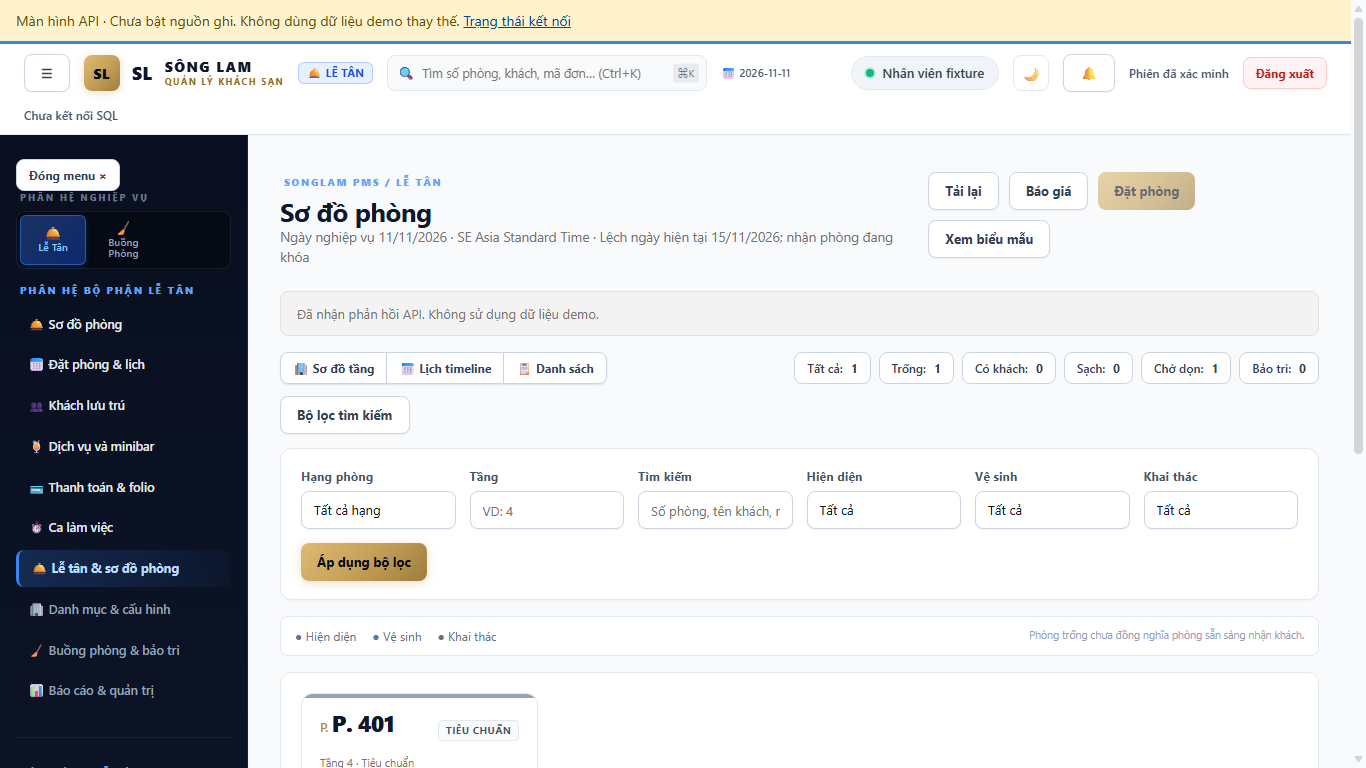
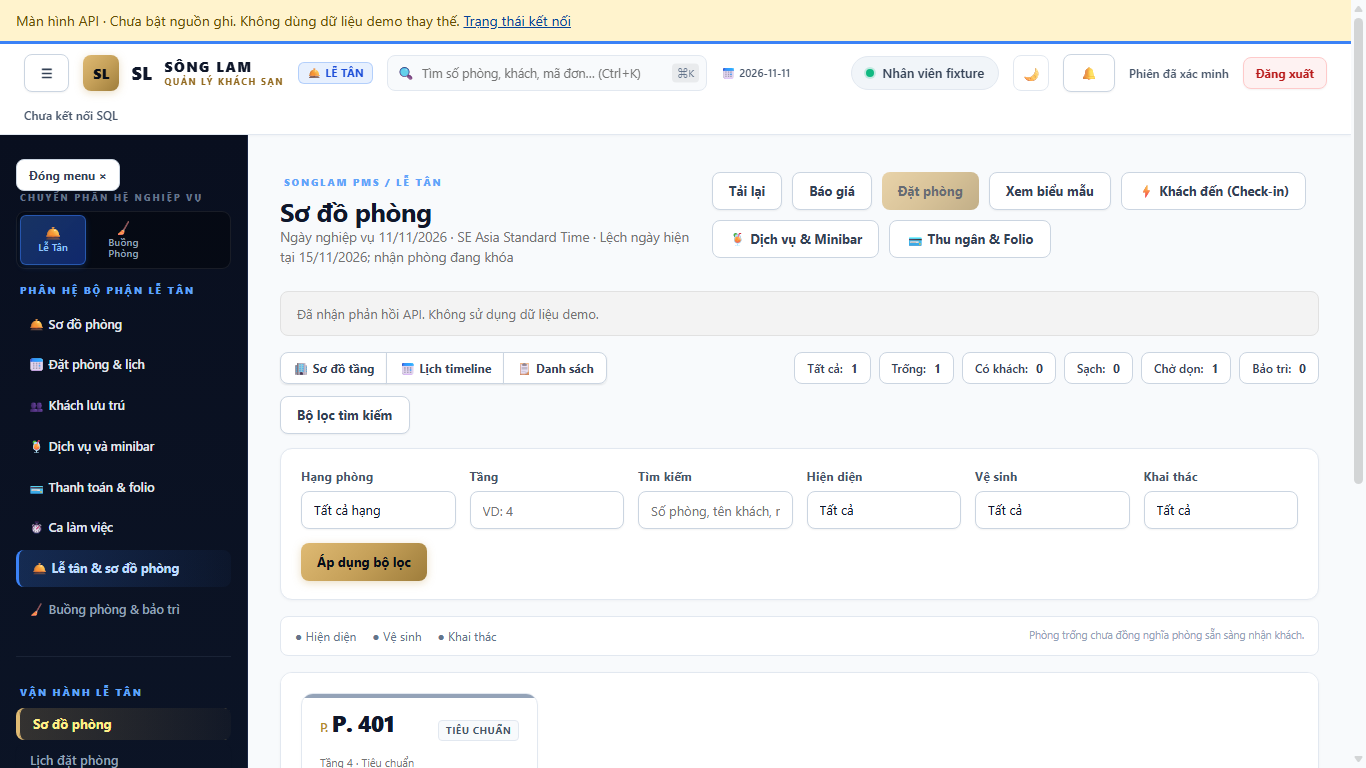
feat(auth-ui): enforce role-based portal routing and add comprehensive interactive buttons for reception, housekeeping, and management

diff --git a/js/pages/reception-api.js b/js/pages/reception-api.js
@@ -137,8 +137,32 @@
     }
     card.append(badges);
 
+    // Quick action buttons directly on the card
+    const cardActions = el('div', null, 'kiot-room-quick-bar tw-flex tw-gap-1 tw-mt-2');
+    if (row.occupancyStatus === 'VACANT') {
+      const bBook = el('button', '+ Đặt', 'btn btn-xs btn-outline-primary tw-py-0.5 tw-px-1.5 tw-text-xs');
+      bBook.type = 'button';
+      bBook.onclick = (e) => { e.stopPropagation(); bookingForm(false, row); };
+      cardActions.append(bBook);
+    } else if (row.occupancyStatus === 'OCCUPIED') {
+      const bSvc = el('button', '🍹 Dịch vụ', 'btn btn-xs btn-outline-secondary tw-py-0.5 tw-px-1.5 tw-text-xs');
+      bSvc.type = 'button';
+      bSvc.onclick = (e) => { e.stopPropagation(); location.assign('services-api.html'); };
+      const bOut = el('button', '💳 Trả', 'btn btn-xs btn-outline-danger tw-py-0.5 tw-px-1.5 tw-text-xs');
+      bOut.type = 'button';
+      bOut.onclick = (e) => { e.stopPropagation(); location.assign('finance-api.html#checkout'); };
+      cardActions.append(bSvc, bOut);
+    }
+    if (row.cleanlinessStatus === 'DIRTY') {
+      const bClean = el('button', '🧹 Báo dọn', 'btn btn-xs btn-outline-warning tw-py-0.5 tw-px-1.5 tw-text-xs');
+      bClean.type = 'button';
+      bClean.onclick = (e) => { e.stopPropagation(); location.assign('housekeeping-api.html#tasks'); };
+      cardActions.append(bClean);
+    }
+    if (cardActions.children.length) card.append(cardActions);
+
     card.onclick = () => {
-      // Open detail dialog on click
+      // Open comprehensive action dialog on click
       const content = dialog('Phòng ' + row.number + ' · ' + typeName);
       details(content, {
         'Số phòng': row.number,
@@ -148,9 +172,38 @@
         'Vệ sinh': U.label(row.cleanlinessStatus),
         'Khai thác': U.label(row.exploitationStatus)
       });
-      const actions = el('div', null, 'tw-flex tw-gap-2 tw-mt-4');
+      const actions = el('div', null, 'tw-flex tw-flex-wrap tw-gap-2 tw-mt-4');
       if (row.occupancyStatus === 'VACANT') {
-        actions.append(button('📝 Đặt phòng này', () => { $('desk-close').click(); $('desk-create').click(); }, true));
+        actions.append(button('📝 Đặt phòng này', () => { $('desk-close').click(); bookingForm(false, row); }, true));
+        actions.append(button('⚡ Nhận khách vãng lai (Walk-in)', () => { $('desk-close').click(); bookingForm(false, row); }));
+        actions.append(button('🧹 Yêu cầu buồng phòng dọn', () => { location.assign('housekeeping-api.html#tasks'); }));
+        actions.append(button('🛠 Báo bảo trì phòng', () => { location.assign('housekeeping-api.html#tickets'); }));
+      } else if (row.occupancyStatus === 'OCCUPIED') {
+        actions.append(button('👥 Tra cứu lượt lưu trú', async () => {
+          try {
+            const inHouse = await stays.listStays({ status: 'IN_HOUSE', limit: 50 });
+            const matching = inHouse.data?.find(s => s.segments?.some(seg => seg.roomId === row.id && seg.departedAtUtc === null));
+            if (matching) stayDetail(matching.id);
+            else { screen = 'stays'; offset = 0; navigation(); load(); $('desk-close').click(); }
+          } catch { screen = 'stays'; offset = 0; navigation(); load(); $('desk-close').click(); }
+        }, true));
+        actions.append(button('🍹 Gọi dịch vụ & Minibar', () => { location.assign('services-api.html'); }));
+        actions.append(button('🔄 Chuyển phòng', async () => {
+          try {
+            const inHouse = await stays.listStays({ status: 'IN_HOUSE', limit: 50 });
+            const matching = inHouse.data?.find(s => s.segments?.some(seg => seg.roomId === row.id && seg.departedAtUtc === null));
+            if (matching) stayDetail(matching.id);
+            else { screen = 'stays'; offset = 0; navigation(); load(); $('desk-close').click(); }
+          } catch { screen = 'stays'; offset = 0; navigation(); load(); $('desk-close').click(); }
+        }));
+        actions.append(button('💳 Quyết toán & Trả phòng', () => { location.assign('finance-api.html#checkout'); }));
+        actions.append(button('🛠 Báo hỏng thiết bị', () => { location.assign('housekeeping-api.html#tickets'); }));
+      }
+      if (row.cleanlinessStatus === 'DIRTY' || row.cleanlinessStatus === 'CLEANING') {
+        actions.append(button('⚡ Ưu tiên dọn đón khách', () => { location.assign('housekeeping-api.html#tasks'); }));
+      }
+      if (row.exploitationStatus === 'MAINTENANCE') {
+        actions.append(button('🛠 Xem phiếu bảo trì', () => { location.assign('housekeeping-api.html#tickets'); }));
       }
       actions.append(button('Đóng', () => $('desk-close').click()));
       content.append(actions);
@@ -303,7 +356,7 @@
     form.oninput=form.onchange=()=>{result.replaceChildren();result.className='sl-quote';};
     host.append(el('p','Giá do backend tính theo chính sách được duyệt. Báo giá không giữ phòng và không thu tiền.','small text-secondary'));
   }
-  async function bookingForm(preview = false) {
+  async function bookingForm(preview = false, prefillRoom = null) {
     const host = dialog('Đặt phòng lẻ / khách đoàn'), form = el('form', null, 'sl-form-grid'), quote = el('section', null, 'sl-quote'); form.dataset.pmsReadOnly='true'; host.append(form);
     if (preview) blocked(host, 'Đây là bản xem biểu mẫu. Không xác nhận đơn, không thu cọc, không ghi dữ liệu.');
     const canEstimate = availableModules.includes('pricingGateway') && availableModules.includes('bookingsGateway') && catalogCapabilities.ratePlans?.supported === true && catalogCapabilities.customers?.supported === true && ratePlans.some(item => item.active) && Boolean(hotel?.timeZoneId);
@@ -378,6 +431,20 @@
       field(row, 'adults', 'Người lớn', { type: 'number', value: '1', min: 1, max: 32767 }); field(row, 'children', 'Trẻ em', { type: 'number', value: '0', min: 0, max: 32767 });
       field(row, 'leadCustomerId', 'Khách chính ở phòng', { options: [['', 'Chọn khách chính'], ...customerRows.map(item => [item.id, item.fullName])] });
       const companions = field(row, 'guestCustomerIds', 'Khách đồng hành (có thể chọn nhiều)', { options: customerRows.map(item => [item.id, item.fullName]) }); companions.multiple = true; companions.selectedIndex = -1;
+      if (prefillRoom) {
+        roomType.value = prefillRoom.roomTypeId;
+        plansForMode();
+        plannedRoom.add(new Option('P. ' + prefillRoom.number + ' · ' + U.label(prefillRoom.cleanlinessStatus), prefillRoom.id));
+        plannedRoom.value = prefillRoom.id;
+        const today = hotel?.workingDate || new Date().toISOString().slice(0, 10);
+        const checkIn = row.querySelector('[name=checkInAt]');
+        const checkOut = row.querySelector('[name=checkOutAt]');
+        if (checkIn && !checkIn.value) checkIn.value = today + 'T14:00';
+        if (checkOut && !checkOut.value) {
+          const nextDay = new Date(Date.parse(today + 'T00:00:00Z') + 86400000).toISOString().slice(0, 10);
+          checkOut.value = nextDay + 'T12:00';
+        }
+      }
       row.append(button('Bỏ dòng phòng', () => { if (roomForms.length === 1) return; roomForms.splice(roomForms.indexOf(row), 1); row.remove(); invalidateQuote(); })); roomForms.push(row); roomSection.append(row);
     }
     addRoom(); const add = button('+ Thêm phòng vào đoàn', () => { if (roomForms.length >= 50) return; addRoom(); kind.value = 'GROUP'; kind.dispatchEvent(new Event('change')); quote.replaceChildren(); }); form.append(add);
@@ -561,6 +628,9 @@
   $('desk-preview').onclick = () => bookingForm(true);
   $('desk-create').onclick = () => bookingForm();
   $('desk-quote').onclick = () => quoteForm();
+  $('desk-quick-checkin')?.addEventListener('click', () => { screen = 'arrivals'; offset = 0; navigation(); load(); });
+  $('desk-quick-service')?.addEventListener('click', () => { location.assign('services-api.html'); });
+  $('desk-quick-cashier')?.addEventListener('click', () => { location.assign('finance-api.html'); });
   filters.onsubmit = event => { event.preventDefault(); offset = 0; load(); };
   root.addEventListener('hashchange', () => {
     const target = location.hash.slice(1);

diff --git a/js/components/workspace.js b/js/components/workspace.js
@@ -128,9 +128,9 @@
     switcher.setAttribute('aria-label', 'Chuyển phân hệ làm việc');
 
     const portalTabs = [
-      { id: 'management', href: 'admin-api.html', icon: '👑', label: 'Quản Lý', rights: ['viewDailyRevenue', 'systemConfig', 'viewAuditLog', 'editRoomClasses'] },
+      { id: 'management', href: 'admin-api.html', icon: '👑', label: 'Quản Lý', rights: ['viewDailyRevenue', 'systemConfig'] },
       { id: 'reception', href: 'reception-api.html', icon: '🛎', label: 'Lễ Tân', rights: ['viewRoomRack', 'createBooking', 'manageCheckIn'] },
-      { id: 'housekeeping', href: 'housekeeping-api.html', icon: '🧹', label: 'Buồng Phòng', rights: ['updateCleanStatus', 'manageHousekeepingTasks', 'reportMaintenance'] }
+      { id: 'housekeeping', href: 'housekeeping-api.html', icon: '🧹', label: 'Buồng Phòng', rights: ['updateCleanStatus', 'manageHousekeepingTasks'] }
     ];
     for (const pt of portalTabs) {
       const tab = C.el('a', null, 'sl-portal-tab sl-portal-tab-' + pt.id + (pt.id === currentPortal ? ' active' : ''));
@@ -274,13 +274,48 @@
       if (identity) previousIdentity = identity;
 
       // Update visibility of portal tabs based on permissions
+      let visiblePortalCount = 0;
       for (const tab of switcher.children) {
-        tab.hidden = !me || !root.SongLamPermissions?.any(tab.dataset.rights.split(','));
+        const canAccess = me && root.SongLamPermissions?.any(tab.dataset.rights.split(','));
+        tab.hidden = !canAccess;
+        if (canAccess) visiblePortalCount++;
+      }
+      if (portalHeaderLabel) {
+        portalHeaderLabel.textContent = visiblePortalCount > 1 ? 'CHUYỂN PHÂN HỆ NGHIỆP VỤ' : 'PHÂN HỆ ĐƯỢC PHÂN QUYỀN';
+      }
+
+      // Check portal-level access enforcement
+      const portalRules = {
+        management: ['viewDailyRevenue', 'systemConfig'],
+        reception: ['viewRoomRack', 'createBooking', 'manageCheckIn'],
+        housekeeping: ['updateCleanStatus', 'manageHousekeepingTasks']
+      };
+      const allowedOnCurrentPortal = !me || root.SongLamPermissions?.any(portalRules[currentPortal] || []);
+      const existingGuard = document.querySelector('.sl-portal-guard');
+      if (!allowedOnCurrentPortal && me) {
+        if (!existingGuard) {
+          const main = document.querySelector('.ops-main');
+          if (main) {
+            const guard = C.el('div', null, 'alert alert-warning sl-portal-guard tw-mb-4');
+            guard.setAttribute('role', 'alert');
+            guard.innerHTML = `
+              <div class="tw-font-bold tw-text-sm">⚠ Giới hạn phân quyền tài khoản</div>
+              <div class="tw-text-xs tw-mt-1">Tài khoản <strong>${me.user.fullName || me.user.username}</strong> không thuộc phân hệ ${pCfg.label}. Vui lòng chuyển về đúng phân hệ được giao.</div>
+              <div class="tw-mt-2"><button type="button" class="btn btn-sm btn-primary" onclick="location.assign('${root.SongLamPermissions.home()}')">Chuyển về phân hệ của bạn →</button></div>
+            `;
+            main.prepend(guard);
+          }
+        }
+      } else if (existingGuard) {
+        existingGuard.remove();
       }
 
       // Update visibility of workspace links based on permissions
       for (const a of links.children) {
-        a.hidden = !me || !root.SongLamPermissions?.any(a.dataset.rights.split(','));
+        const hasRights = me && root.SongLamPermissions?.any(a.dataset.rights.split(','));
+        const pGroup = a.dataset.portal;
+        const canPortal = !pGroup || root.SongLamPermissions?.any(portalRules[pGroup] || []);
+        a.hidden = !hasRights || !canPortal;
         const hrefBase = a.getAttribute('href')?.split('#')[0];
         if (hrefBase && location.pathname.endsWith('/' + hrefBase)) {
           if (a.getAttribute('href') === location.pathname.split('/').pop() || (location.hash && a.getAttribute('href').endsWith(location.hash))) {

diff --git a/js/pages/admin-api.js b/js/pages/admin-api.js
@@ -119,11 +119,25 @@
         // 2. Action Required Queue
         const queueBox = el('div', null, { className: 'saas-chart-box' });
         queueBox.append(el('h3', 'DANH SÁCH VIỆC CẦN XỬ LÝ (ACTION QUEUE)', { className: 'saas-chart-title tw-text-sm' }));
-        const queue = el('div', null, { className: 'saas-action-queue' });
-        queue.append(el('div', '⚠ Đơn chưa phân phòng: 0 đơn', { className: 'saas-action-item' }));
-        queue.append(el('div', '💰 Yêu cầu hoàn tiền chờ duyệt: 0 khoản', { className: 'saas-action-item' }));
-        queue.append(el('div', '🛠 Sự cố thiết bị phòng cần bảo trì: Theo dõi tại phân hệ Buồng phòng', { className: 'saas-action-item' }));
-        queue.append(el('div', '🧾 Giao dịch / ngoại lệ cần xác nhận: Kiểm tra tại tab Ngoại lệ', { className: 'saas-action-item' }));
+        const queue = el('div', null, { className: 'saas-action-queue tw-flex tw-flex-col tw-gap-2' });
+
+        const q1 = el('div', null, { className: 'saas-action-item tw-flex tw-items-center tw-justify-between tw-flex-wrap tw-gap-2' });
+        q1.append(el('span', '⚠ Đơn chưa phân phòng: 0 đơn'));
+        q1.append(el('button', 'Phân phòng ngay →', { className: 'btn btn-xs btn-outline-primary', type: 'button', onClick: () => location.assign('reception-api.html#bookings') }));
+
+        const q2 = el('div', null, { className: 'saas-action-item tw-flex tw-items-center tw-justify-between tw-flex-wrap tw-gap-2' });
+        q2.append(el('span', '💰 Yêu cầu hoàn tiền chờ duyệt: 0 khoản'));
+        q2.append(el('button', 'Xem & duyệt →', { className: 'btn btn-xs btn-outline-warning', type: 'button', onClick: () => location.assign('finance-api.html') }));
+
+        const q3 = el('div', null, { className: 'saas-action-item tw-flex tw-items-center tw-justify-between tw-flex-wrap tw-gap-2' });
+        q3.append(el('span', '🛠 Sự cố thiết bị phòng: Theo dõi tại phân hệ Buồng phòng'));
+        q3.append(el('button', 'Xem phiếu sự cố →', { className: 'btn btn-xs btn-outline-secondary', type: 'button', onClick: () => location.assign('housekeeping-api.html#tickets') }));
+
+        const q4 = el('div', null, { className: 'saas-action-item tw-flex tw-items-center tw-justify-between tw-flex-wrap tw-gap-2' });
+        q4.append(el('span', '🧾 Giao dịch / ngoại lệ cần xác nhận: Kiểm tra tại tab Ngoại lệ'));
+        q4.append(el('button', 'Mở tab ngoại lệ →', { className: 'btn btn-xs btn-outline-secondary', type: 'button', onClick: () => select('exceptions') }));
+
+        queue.append(q1, q2, q3, q4);
         queueBox.append(queue);
         extraSection.append(queueBox);
 
@@ -231,6 +245,11 @@
     });
     $('ops-menu').addEventListener('click', () => { const shown = $('ops-sidebar').classList.toggle('open'); $('ops-menu').setAttribute('aria-expanded', String(shown)); });
     $('mgmt-close').addEventListener('click', () => $('mgmt-dialog').close()); $('mgmt-refresh').addEventListener('click', load);
+    $('mgmt-quick-rooms')?.addEventListener('click', () => location.assign('catalog-api.html#rooms'));
+    $('mgmt-quick-users')?.addEventListener('click', () => select('users'));
+    $('mgmt-quick-export')?.addEventListener('click', () => {
+      window.print();
+    });
     $('mgmt-filters').addEventListener('submit', event => { event.preventDefault(); offset = 0; load(); }); $('mgmt-prev').addEventListener('click', () => { offset = Math.max(0, offset - pageSize); load(); }); $('mgmt-next').addEventListener('click', () => { offset += pageSize; load(); });
     (async () => {
       try {

diff --git a/js/pages/housekeeping-api.js b/js/pages/housekeeping-api.js
@@ -114,14 +114,21 @@
               card.append(el('div', { className: 'tw-text-xs tw-font-semibold tw-text-secondary' }, 'Loại việc: ' + display(task.taskType)));
               card.append(el('div', { className: 'tw-text-xs tw-text-muted' }, 'Phụ trách: ' + (task.assignedToId ? display(task.assignedToId) : 'Chưa phân công')));
 
-              if (task.allowedActions?.length) {
-                const actBox = el('div', { className: 'hk-task-actions' });
-                for (const action of task.allowedActions) {
-                  if (!actionNames[action]) continue;
-                  actBox.append(el('button', { className: 'btn btn-sm btn-outline-primary', type: 'button', onClick: () => actionForm(action, task) }, actionNames[action]));
-                }
-                card.append(actBox);
+              const actBox = el('div', { className: 'hk-task-actions tw-flex tw-gap-1 tw-flex-wrap tw-mt-2' });
+              const availableActions = task.allowedActions?.length ? task.allowedActions : (
+                ['QUEUED', 'PENDING'].includes(task.phase || task.status) ? ['claim', 'start'] :
+                ['CLAIMED'].includes(task.phase || task.status) ? ['start', 'unable'] :
+                ['CLEANING', 'IN_PROGRESS'].includes(task.phase || task.status) ? ['submit', 'unable'] :
+                ['AWAITING_INSPECTION', 'INSPECTING'].includes(task.phase || task.status) ? ['inspect-approve', 'inspect-reject'] : []
+              );
+              for (const action of availableActions) {
+                if (!actionNames[action]) continue;
+                actBox.append(el('button', { className: 'btn btn-xs btn-outline-primary tw-py-1 tw-px-2 tw-text-xs', type: 'button', onClick: () => actionForm(action, task) }, actionNames[action]));
               }
+              if (['CLEANING', 'IN_PROGRESS'].includes(task.phase || task.status)) {
+                actBox.append(el('button', { className: 'btn btn-xs btn-outline-secondary tw-py-1 tw-px-2 tw-text-xs', type: 'button', onClick: () => location.assign('services-api.html#minibar') }, '🥤 Minibar'));
+              }
+              card.append(actBox);
               colEl.append(card);
             }
 
@@ -292,6 +299,9 @@
     $('ops-filters').addEventListener('submit', event => { event.preventDefault(); offset = 0; load(); });
     $('ops-refresh').addEventListener('click', load);
     $('ops-create').addEventListener('click', () => actionForm('create'));
+    $('hk-quick-ticket')?.addEventListener('click', () => select('tickets'));
+    $('hk-quick-minibar')?.addEventListener('click', () => location.assign('services-api.html#minibar'));
+    $('hk-quick-item')?.addEventListener('click', () => select('items'));
     $('ops-prev').addEventListener('click', () => { offset = Math.max(0, offset - pageSize); load(); });
     $('ops-next').addEventListener('click', () => { offset += pageSize; load(); });
     async function boot() {

diff --git a/portal.html b/portal.html
@@ -371,5 +371,56 @@
       </div>
     </main>
   </div>
+
+  <script>
+    document.addEventListener('DOMContentLoaded', async () => {
+      try {
+        const me = await window.SongLamSession?.restore();
+        if (me?.data?.user) {
+          const user = me.data.user;
+          const userIdentity = document.getElementById('desk-user');
+          if (userIdentity) userIdentity.textContent = '👤 ' + (user.fullName || user.username);
+
+          const permissions = window.SongLamPermissions;
+          if (permissions) {
+            const hasAdmin = permissions.any(['systemConfig', 'viewDailyRevenue']);
+            const hasReception = permissions.any(['createBooking', 'manageCheckIn']);
+            const hasHousekeeping = permissions.any(['updateCleanStatus', 'manageHousekeepingTasks']);
+
+            // Auto-redirect specialized single-role users directly to their portal
+            if (!hasAdmin && hasReception && !hasHousekeeping) {
+              window.location.replace('reception-api.html');
+              return;
+            }
+            if (!hasAdmin && !hasReception && hasHousekeeping) {
+              window.location.replace('housekeeping-api.html');
+              return;
+            }
+
+            // Role visual indicators on cards
+            const cardMgmt = document.querySelector('.portal-card-mgmt');
+            const cardRec = document.querySelector('.portal-card-rec');
+            const cardHk = document.querySelector('.portal-card-hk');
+
+            if (cardMgmt && !hasAdmin) {
+              cardMgmt.style.opacity = '0.6';
+              const btn = cardMgmt.querySelector('.portal-btn-primary');
+              if (btn) { btn.textContent = '🔒 Không có quyền Quản Lý'; btn.style.pointerEvents = 'none'; btn.style.background = '#94a3b8'; }
+            }
+            if (cardRec && !hasReception && !permissions.has('viewRoomRack')) {
+              cardRec.style.opacity = '0.6';
+              const btn = cardRec.querySelector('.portal-btn-primary');
+              if (btn) { btn.textContent = '🔒 Không có quyền Lễ Tân'; btn.style.pointerEvents = 'none'; btn.style.background = '#94a3b8'; }
+            }
+            if (cardHk && !hasHousekeeping) {
+              cardHk.style.opacity = '0.6';
+              const btn = cardHk.querySelector('.portal-btn-primary');
+              if (btn) { btn.textContent = '🔒 Không có quyền Buồng Phòng'; btn.style.pointerEvents = 'none'; btn.style.background = '#94a3b8'; }
+            }
+          }
+        }
+      } catch (e) {}
+    });
+  </script>
 </body>
 </html>

diff --git a/reception-api.html b/reception-api.html
@@ -13,7 +13,7 @@
   <header class="ops-topbar"><button class="btn btn-icon" id="desk-menu" aria-label="Mở menu" aria-expanded="false" aria-controls="ops-sidebar">☰</button><a class="sl-wordmark" href="reception-api.html">SL <span>SÔNG LAM <small>QUẢN LÝ KHÁCH SẠN</small></span></a><span class="ops-identity" id="desk-user">Đang xác minh phiên…</span><a href="login.html" class="btn btn-sm">Đăng nhập</a></header>
   <div class="ops-shell"><aside class="ops-sidebar" id="ops-sidebar"><p class="sl-section-label">VẬN HÀNH LỄ TÂN</p><nav id="desk-nav" aria-label="Lễ tân"></nav><p class="sl-sidebar-note">Dữ liệu chỉ lấy từ máy chủ. Những chức năng chưa được phép ghi sẽ được khóa.</p></aside>
   <main class="ops-main">
-    <div class="ops-heading"><div><div class="sl-section-label">SONGLAM PMS / LỄ TÂN</div><h1 id="desk-title">Sơ đồ phòng</h1><p class="text-secondary mb-0" id="desk-period">Chưa xác minh ngày nghiệp vụ và múi giờ khách sạn.</p></div><div class="ops-actions"><button class="btn" id="desk-refresh">Tải lại</button><button class="btn" id="desk-quote">Báo giá</button><button class="btn btn-primary" id="desk-create" disabled>Đặt phòng</button><button class="btn" id="desk-preview">Xem biểu mẫu</button></div></div>
+    <div class="ops-heading"><div><div class="sl-section-label">SONGLAM PMS / LỄ TÂN</div><h1 id="desk-title">Sơ đồ phòng</h1><p class="text-secondary mb-0" id="desk-period">Chưa xác minh ngày nghiệp vụ và múi giờ khách sạn.</p></div><div class="ops-actions"><button class="btn" id="desk-refresh">Tải lại</button><button class="btn" id="desk-quote">Báo giá</button><button class="btn btn-primary" id="desk-create" disabled>Đặt phòng</button><button class="btn" id="desk-preview">Xem biểu mẫu</button><button class="btn btn-outline-primary" id="desk-quick-checkin" type="button">⚡ Khách đến (Check-in)</button><button class="btn btn-outline-secondary" id="desk-quick-service" type="button">🍹 Dịch vụ &amp; Minibar</button><button class="btn btn-outline-secondary" id="desk-quick-cashier" type="button">💳 Thu ngân &amp; Folio</button></div></div>
     <div id="desk-message" class="alert alert-info" role="status" aria-live="polite">Đang kiểm tra phiên đăng nhập và nguồn dữ liệu…</div>
     
     <!-- KiotViet Hotel PMS: View Modes (Sơ đồ tầng / Timeline / Danh sách) & Status Counters -->

diff --git a/admin-api.html b/admin-api.html
@@ -21,7 +21,7 @@
     <hr><a id="mgmt-link-finance" href="finance-api.html" hidden>Thu ngân &amp; checkout qua API</a><hr><a id="mgmt-link-services" href="services-api.html" hidden>Dịch vụ &amp; minibar qua API</a><hr><a id="mgmt-link-housekeeping" href="housekeeping-api.html" hidden>Buồng phòng qua API</a>
     <p class="small text-secondary mt-3">Màn hình chỉ đọc dữ liệu backend; không lấy KPI hoặc quyền từ demo cục bộ.</p></aside>
     <main class="ops-main"><div class="ops-heading"><div><div class="small text-secondary">KHÁCH SẠN SÔNG LAM</div><h1 id="mgmt-title">Dashboard &amp; báo cáo</h1></div>
-      <div class="ops-actions"><button id="mgmt-definitions" class="btn" hidden>Định nghĩa chỉ số</button><button id="mgmt-refresh" class="btn" disabled>Tải lại</button></div></div>
+      <div class="ops-actions"><button id="mgmt-definitions" class="btn" hidden>Định nghĩa chỉ số</button><button id="mgmt-refresh" class="btn" disabled>Tải lại</button><button id="mgmt-quick-rooms" class="btn btn-outline-primary" type="button">🏢 Hạng phòng &amp; Giá</button><button id="mgmt-quick-users" class="btn btn-outline-secondary" type="button">👤 Nhân viên &amp; Phân quyền</button><button id="mgmt-quick-export" class="btn btn-outline-secondary" type="button">📥 Xuất báo cáo</button></div></div>
       <div id="mgmt-message" class="alert alert-secondary" role="status" aria-live="polite">Đang xác minh phiên và hợp đồng dữ liệu…</div>
       <p id="mgmt-period" class="mgmt-period">Chưa xác nhận kỳ/múi giờ từ SQL.</p>
       <form id="mgmt-filters" class="card card-body ops-filters" hidden></form>

diff --git a/housekeeping-api.html b/housekeeping-api.html
@@ -34,7 +34,7 @@
     </aside>
     <main class="ops-main">
       <div class="ops-heading"><div><div class="text-secondary small">VẬN HÀNH KHÁCH SẠN</div><h1 id="ops-title">Buồng phòng &amp; bảo trì</h1></div>
-        <div class="ops-actions"><button class="btn" id="ops-refresh" disabled>Tải lại</button><button class="btn btn-primary" id="ops-create" hidden>Tạo mới</button></div>
+        <div class="ops-actions"><button class="btn" id="ops-refresh" disabled>Tải lại</button><button class="btn btn-primary" id="ops-create" hidden>Tạo mới</button><button class="btn btn-outline-primary" id="hk-quick-ticket" type="button">🛠 Báo hỏng thiết bị</button><button class="btn btn-outline-secondary" id="hk-quick-minibar" type="button">🥤 Kiểm Minibar</button><button class="btn btn-outline-secondary" id="hk-quick-item" type="button">📦 Đồ thất lạc</button></div>
       </div>
       <p class="alert alert-info" id="ops-inspection">Dọn xong chuyển sang chờ kiểm tra. Chưa bật nghiệm thu khi chưa có quyền riêng và hợp đồng SQL được duyệt. Sửa xong không đồng nghĩa phòng sạch.</p>
       <div id="ops-message" role="status" aria-live="polite" class="alert alert-secondary">Đang kết nối backend…</div>

diff --git a/css/tailwind.css b/css/tailwind.css
@@ -521,6 +521,21 @@ html.dark .kiot-alert-badge {
   border-color: #7f1d1d;
 }
 
+.kiot-room-quick-bar {
+  display: flex;
+  gap: 4px;
+  flex-wrap: wrap;
+  padding-top: 4px;
+}
+
+.btn-xs {
+  font-size: 11px;
+  padding: 2px 7px;
+  line-height: 1.3;
+  border-radius: 4px;
+  font-weight: 600;
+}
+
 /* ==========================================================================
    Management Overview Stat Cards & Dashboard (KiotViet / Modern SaaS)
    ========================================================================== */
